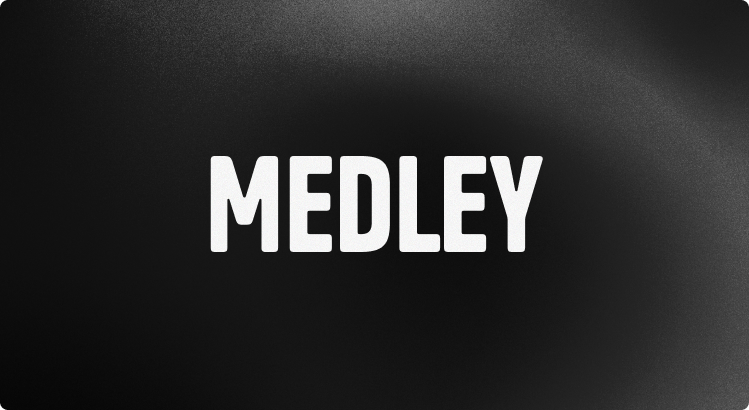
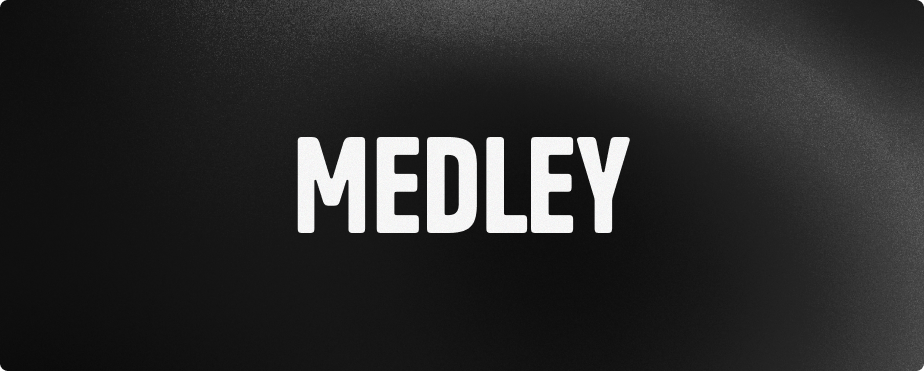
updated readme

Changed region(s): [[0.2764, 0.3558, 0.737, 0.6523], [0.3685, 0.0, 0.6142, 0.1482]]

diff --git a/README.md b/README.md
@@ -1,4 +1,4 @@
-![Medley](assets/images/medley-readme-review.png)
+<img src="assets/images/medley-readme-review.png" alt="Medley" width="100%" />
 
 A simple media discovery app built with Expo + React Native, Expo Router, Supabase, and TanStack Query. It includes **coming soon**
 
